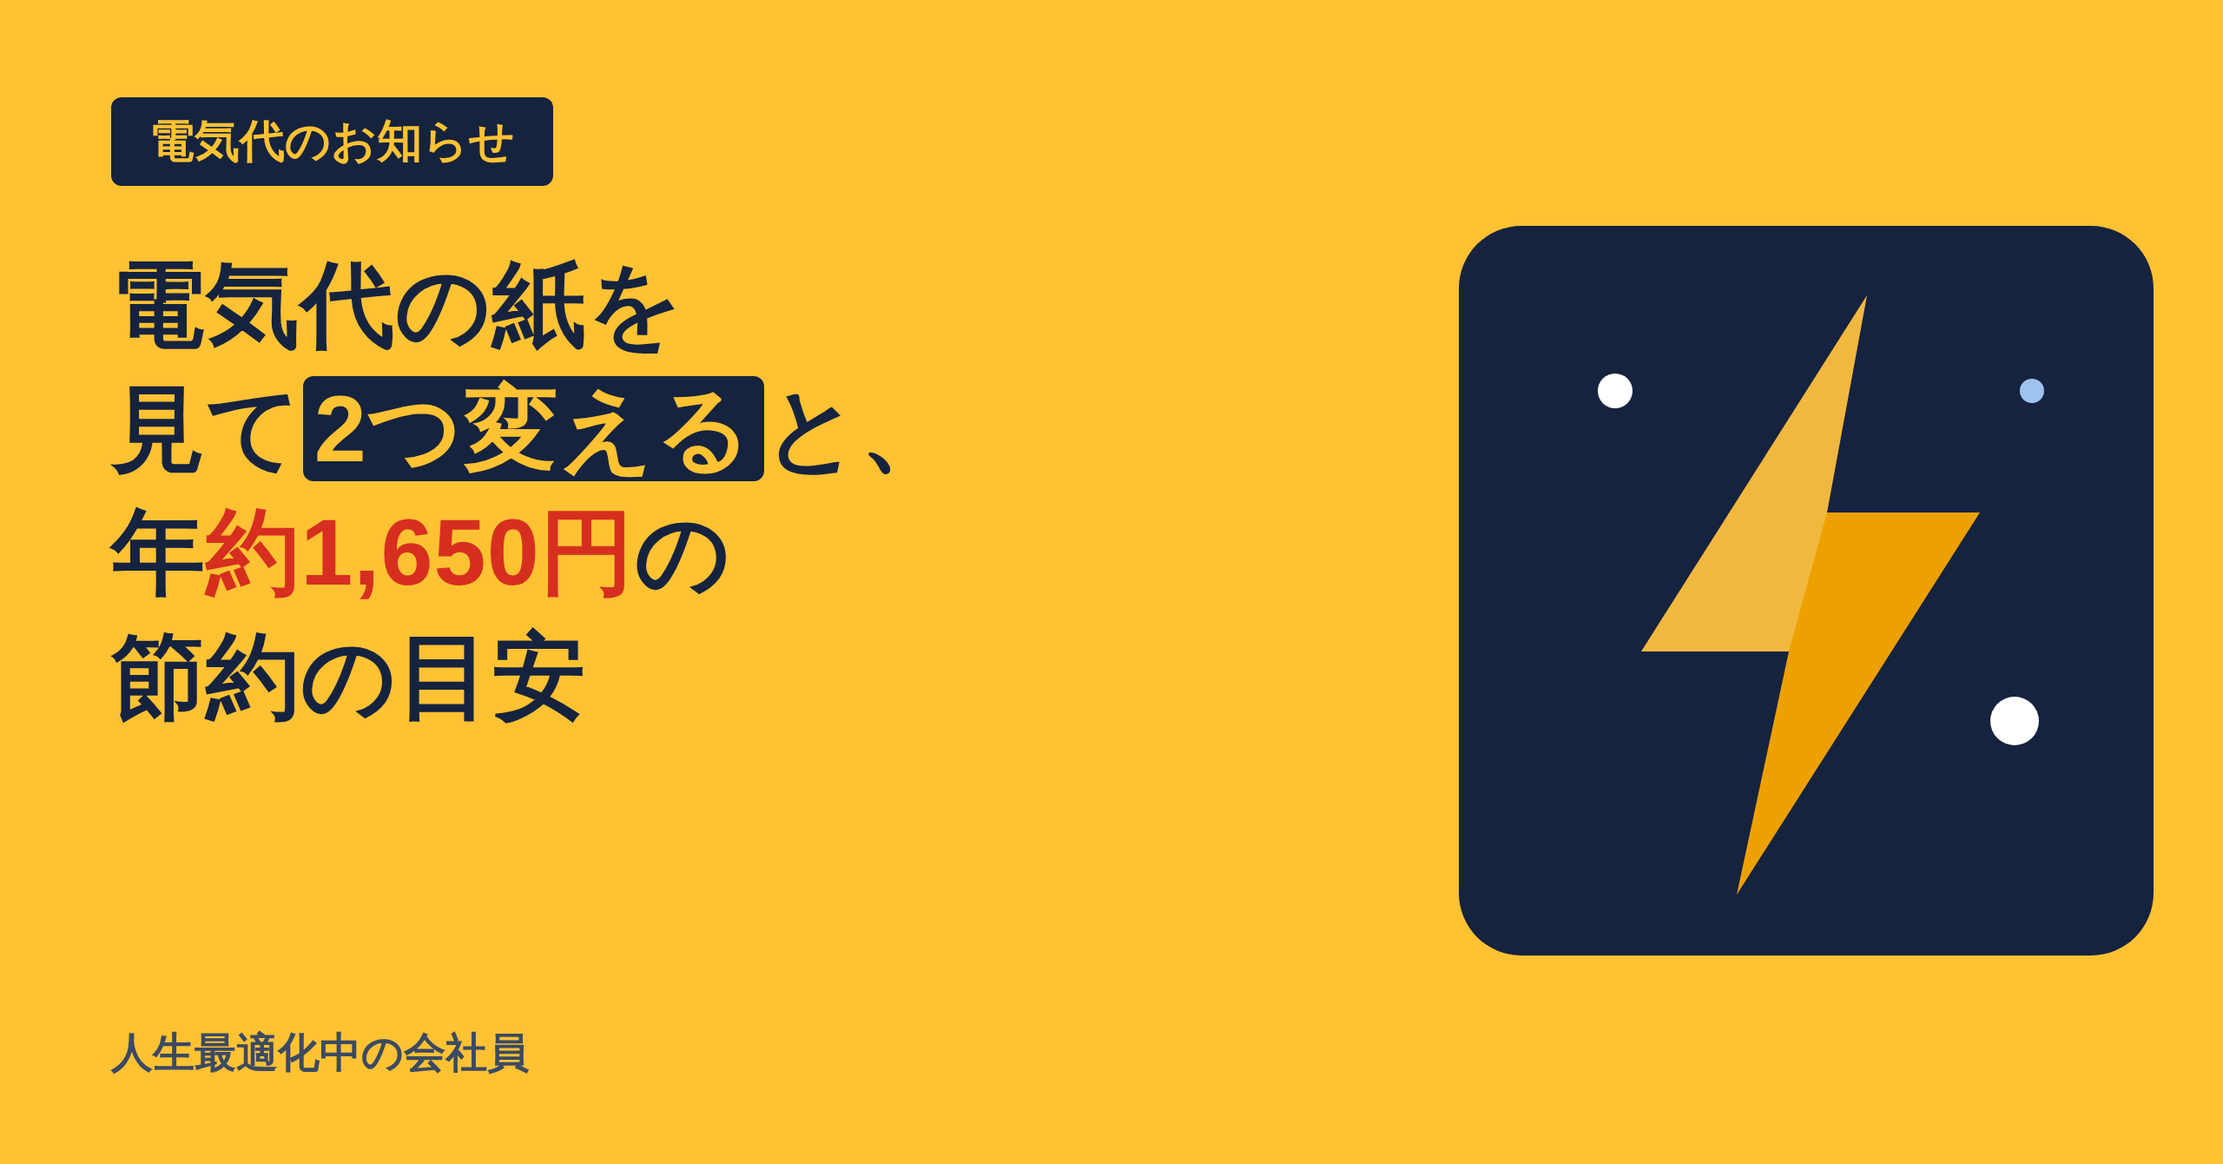
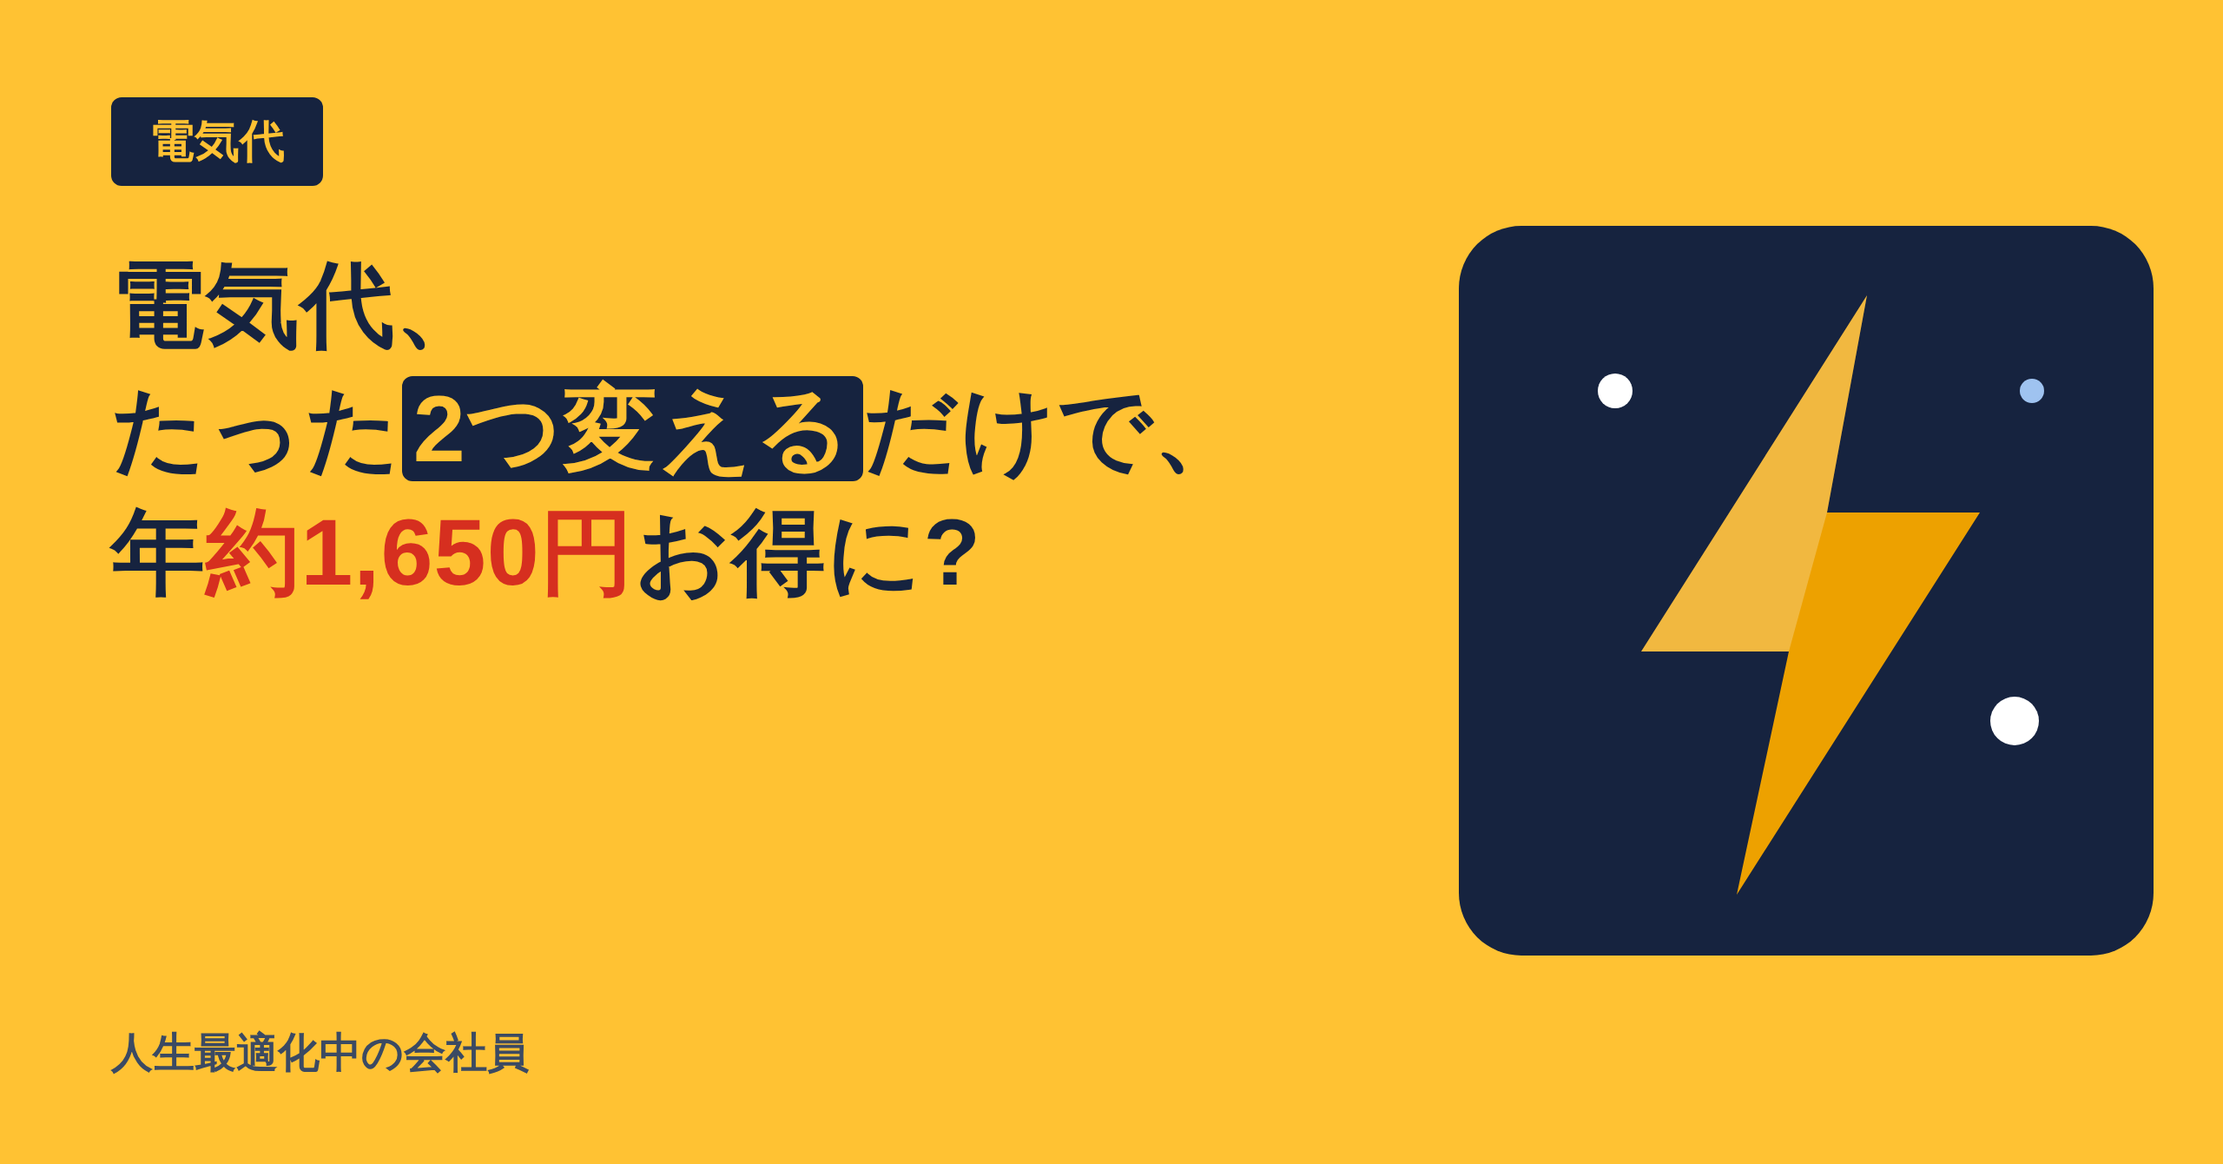
2026-11-02_001: shorter title per owner (電気代、たった2つ変えるだけで、年約1,650円お得に?)
Claude-Session: https://claude.ai/code/session_019jxzMkHZEL8EPC28xkVZW1

diff --git a/runs/2026-11-04_002/03_draft.md b/runs/2026-11-04_002/03_draft.md
@@ -1,0 +1,124 @@
+# 「毎月こんなもの」のスマホ代、1年分だといくら?
+
+【画像:cover.png】
+
+こんにちは、人生最適化中の会社員です。今日は、毎月のスマホ代を「1年分」で見る話です。
+
+請求が届いて、金額を見て、「まあ、毎月こんなものか」と思って閉じる。そんな人もいると思います。月に数千円だと、わざわざ調べる気になりにくいですよね。
+
+そこで、電卓を1つ用意してください。やることは3つだけです。
+
+1. 今月の請求額を、電卓で12倍する
+2. 請求書(またはマイページ)で、見る場所を3つ確かめる
+3. 気になるところがあれば、総務省が案内する見直しの3段階に進む
+
+乗り換えなくても、見直しの入口には立てます。ただ、下がる金額は人の契約によって違い、「必ず下がる」とは言えません。この記事の金額は、どれも目安です。
+
+## 月の請求は、12倍すると大きさが見える
+
+毎月の請求は、1回ごとの額が小さく見えます。でも、スマホ代は1年間ずっと続きます。12か月分をまとめると、金額の感じ方が変わることがあります(これは僕の推測です)。
+
+たとえば、気づかないまま月500円ぶんを余計に払い続けていたとします。1回なら缶コーヒー数本ぶんですが、500円×12=6,000円です。月で見るより、年で見たほうが、手を動かす理由になりやすいと思います。
+
+## まず、今月の請求を電卓で12倍する
+
+今月の請求額に12を掛けてください。これが、いまの契約を1年続けたときの目安です(毎月の額が変わる人は、直近の数か月を見て、近い額で試してください)。
+
+並べる目安として、公的な統計も1つだけ置いておきます。総務省統計局の家計調査(2025年平均)では、「通信」の支出は1世帯あたり月平均11,672円でした。12倍すると140,064円です。
+
+ただし、この数字には注意が必要です。
+
+- 対象は二人以上の世帯で、世帯主の平均年齢は60.7歳です。単身の人や20〜30代の平均ではありません
+- 「通信」には、携帯電話のほか、自宅のインターネットなど、ほかの通信費も含まれます
+
+つまり、あなたの請求がこれより高くても低くても、「払いすぎ」かどうかは分かりません。あくまで、自分の数字を置いて眺めるための目安です。
+
+## 「月に少し下がる」は、1年でいくら?
+
+次は、もし月の支払いが下がったらの計算です。式は「下がる額(月)×12」です。以下は**架空の例**で、見直しでこれだけ下がると言っているわけではありません。
+
+- 月500円下がったら: 500円×12=6,000円
+- 月1,000円下がったら: 1,000円×12=12,000円
+- 月1,500円下がったら: 1,500円×12=18,000円
+
+【画像:fig1_year_table.png】
+
+総務省のページには、「見直すと月いくら下がる」という平均的な金額は載っていません。だから、自分の契約でいくら下がるかは、請求を見て確かめるしかありません。
+
+## 請求書で見る場所は3つ
+
+12倍して気になったら、請求書やマイページで次の3か所を見てみてください。
+
+**1. 付け足したサービスが残っていないか。** 契約のときや、あとから付けた小さなサービス(「オプション」と呼ばれます)です。総務省は、使わなくなったものは「面倒ですが解約しましょう」と案内しています。月の額を足して12倍すると、1年分の大きさが分かります。
+
+**2. 割引の条件と、終わる時期。** 割引は「最初の半年間だけ」「家族とセットのときだけ」など、期間や条件で料金が変わることがあります。広告の「最安値」も、すべての割引を当てた価格の場合が多いと、総務省が注意しています。
+
+**3. 契約の中身と、使い方の合い方。** 契約のデータ量に対して実際の使用量が少ない、逆によく電話するのに通話が定額になっていない、といった場面は、安くなる例として総務省のページに挙がっています。
+
+【画像:fig2_flow.png】
+
+## 年で見たら、次にやること
+
+総務省の携帯電話ポータルサイトは、見直しを3段階で案内しています。
+
+1. **データ使用量を知る。** 毎月どれだけ使っているかを確かめます
+2. **料金プランを選ぶ。** 「プラン」は、料金とデータ量などの組み合わせのことです。同じ会社の中でも、大容量の定額から、使った量に応じて払う段階制に変えると安くなることがある、と書かれています
+3. **使わないオプションを解約する。** 先ほどの1の続きです
+
+ここまでは、会社を変えなくてもできます。まず1から順に、気になるところだけで十分です。
+
+## つまずきやすいところ(読者のあるある)
+
+- 請求は金額の合計だけ見て、内訳は開かない。そんな人もいると思います
+- 「最初の半年は安い」と聞いて契約したけれど、いつ終わるのか覚えていない、という人もいるかもしれません
+- 「そのうち見直そう」と思いながら、毎月の請求が過ぎていく。そんな人もいると思います
+
+どれも、特別なことではないと思います。気づいたときに、今月分を12倍するところから始めれば大丈夫です。
+
+## 乗り換えるなら、先に足し算を
+
+「乗り換え」は、今の携帯会社をやめて別の会社に移ることです。月の額が下がるなら移ったほうがいいのでは、と思うかもしれませんが、移るときにはお金がかかる場合があります。総務省のページによると、次のとおりです。
+
+- 乗り換え先の契約の手数料(事務手数料など)は、概ね3,300円前後かかる場合があります。店舗だと、多くの場合かかります
+- 今の契約を途中でやめるときの違約金(途中解約のお金)は、2022年7月以降に結んだ契約では、上限が「1,100円と月額料金の低いほう」です(対象の事業者の携帯サービス)
+- 端末(スマホ本体)を分割払いにしている場合は、乗り換えたあとも、支払いが終わるまで毎月の請求が続きます
+- 家族割やセット割が外れて、料金が上がる場合もあります
+
+回収の目安は、「かかる費用÷月に下がる額」で出せます。架空の例では、手数料3,300円で、月500円下がるなら3,300円÷500円=6.6か月、月1,000円下がるなら3,300円÷1,000円=3.3か月です。ここには、端末代の残りや、家族割が外れる分は入っていません。それらがあると、もっと時間がかかります。
+
+契約したあとに考え直したくなったら、契約書面を受け取ってから8日以内なら一方的に解約できる「初期契約解除」という制度があります。ただし、大手の携帯会社などは別の「確認措置」という仕組みを使っていて、電波が十分でない場合などに限られます。対象かどうかは契約先で確認してください。
+
+## まとめ
+
+- 月の請求を12倍すると、1年分の大きさが見えます
+- 家計調査の平均(月11,672円・年140,064円)は、対象が違うので、評価ではなく並べる目安にとどめます
+- 見る場所は3つ。付け足したサービス、割引の終わる時期、契約の中身と使い方です
+- 乗り換えは、費用を月の下がる額で割って、回収の目安を出してから考えます
+
+最後まで読んでくれて、ありがとうございます。
+
+この記事は助言ではなく、一般的な情報です。料金・手数料・ルールは、契約の内容や時期で変わります。最新の内容は契約先と総務省のサイトで確認し、判断はご自身でお願いします。
+
+## 情報源
+- https://www.soumu.go.jp/menu_seisaku/ictseisaku/keitai_portal/norikae_1.html (総務省 携帯電話ポータルサイト「料金プランを見直してみよう」、2026-11-04 取得)
+- https://www.soumu.go.jp/menu_seisaku/ictseisaku/keitai_portal/norikae_2.html (同「乗換えの基本と費用」、2026-11-04 取得)
+- https://www.soumu.go.jp/menu_seisaku/ictseisaku/keitai_portal/norikae_3.html (同「乗換えのチェックポイント」、2026-11-04 取得)
+- https://www.soumu.go.jp/menu_seisaku/ictseisaku/keitai_portal/index.html (同トップ、違約金のお知らせ。2026-11-04 取得)
+- https://www.soumu.go.jp/menu_seisaku/ictseisaku/keitai_portal/gimonkaiketsu/q_5.html (同Q5「初期契約解除」、2026-11-04 取得)
+- https://www.stat.go.jp/data/kakei/2025np/pdf/summary.pdf (総務省統計局 家計調査報告 2025年平均結果の概要、2026-08-07 公開、2026-11-04 取得)
+
+## 執筆メモ(事実・推測・体験の区別)
+- 事実:
+  - 見直しの3段階、使わないオプションは解約、割引は期間・条件で変わる、「最安値」は全割引適用の場合が多い、通話・データ量の合い方、段階制プラン: [S1]
+  - 事務手数料概ね3,300円前後、店舗だと多くの場合かかる: [S6]
+  - 違約金の上限(1,100円と月額の低いほう、2022年7月以降の契約、対象事業者): [S4][S5]。分割払いは乗り換え後も請求が続く、家族割・セット割が外れる: [S4]
+  - 初期契約解除(契約書面受領から8日以内)と確認措置: [S8]
+  - 家計調査 通信 月平均11,672円(二人以上世帯、世帯主平均60.7歳)、携帯以外の通信費も含む: [S9]
+- 推測・計算: 12倍で年の大きさが分かりやすくなる(推測と明記)。140,064円、6,000円、12,000円、18,000円、6.6か月、3.3か月は計算式を本文に示した架空の例(公式の削減額ではない)。
+- 体験: なし。体験欄は作っていない。「つまずきやすいところ」3か所は読者の場面で、筆者の体験ではない。【要入力】なし。次回予告は、確認できる企画がないため入れていない。
+- 注意: 違約金は契約の時期で扱いが違うため、本文に「2022年7月以降の契約」と範囲を書いた。会社名・サービス名は出していない。
+
+## 図の指示(figures.json 用)
+1. cover: {"type":"cover","name":"cover","tag":"スマホ代","title_html":"「毎月こんなもの」の<br><em>スマホ代</em>、<br>1年分だと<b>いくら?</b>","icon":"phone"}。猫なし、1行12字以内、短い型。2段型の sub は使わない。
+2. fig1_year_table: {"type":"checklist","name":"fig1_year_table","title":"月の額を12倍すると、1年分","columns":["月の額","12倍(1年分)","メモ"],"widths":[380,380,392],"boxes":false,"rows":[["500円","6,000円","架空の例(500円×12)"],["1,000円","12,000円","架空の例(1,000円×12)"],["1,500円","18,000円","架空の例(1,500円×12)"],["11,672円","140,064円","家計調査の通信・月平均(二人以上世帯、携帯以外も含む)"],["あなたの請求","電卓で12倍","自分の数字で出す"]],"note":"架空の例は、下がる額の保証ではありません。家計調査は総務省統計局(2025年平均)。"}
+3. fig2_flow: {"type":"checklist","name":"fig2_flow","title":"見る場所の流れ","columns":["順番","やること","見るところ"],"widths":[200,380,572],"boxes":false,"rows":[["1","電卓で12倍","今月の請求額×12"],["2","請求書で3か所","付け足したサービス/割引の終わる時期/契約の中身と使い方"],["3","見直しの3段階","データ使用量を知る → 料金プランを選ぶ → 使わないオプションを解約"]],"note":"出典: 総務省 携帯電話ポータルサイト。"}

diff --git a/runs/2026-11-02_001/06_sns.md b/runs/2026-11-02_001/06_sns.md
@@ -1,6 +1,6 @@
-# SNS投稿案: 電気代の紙を見て2つ変えると、年約1,650円の節約の目安
+# SNS投稿案: 電気代、たった2つ変えるだけで、年約1,650円お得に?
 ## X投稿案
-- 「電気代の紙を見て2つ変えると、年約1,650円の節約の目安」という記事を書きました。例えば(架空の例)冷房を1℃ゆるめ、白熱電球を1日1時間減らした場合の試算です。目安で、下がる保証ではありません。【記事URL】
+- 「電気代、たった2つ変えるだけで、年約1,650円お得に?」という記事を書きました。例えば(架空の例)冷房を1℃ゆるめ、白熱電球を1日1時間減らした場合の試算です。目安で、下がる保証ではありません。【記事URL】
 - 電気代の紙の「使用量」が1kWh減ると、約33円動く目安です。環境省の調査(令和4年度)の年13.2万円÷3,950kWhを、こちらで割り算した数字。実際の額とはずれます。【記事URL】
 - 冷房の設定を27℃から28℃に上げると、年30.2kWhの削減(環境省のページの条件での数字)。33円をかけて約1,000円。夏の話なので、来年の夏の目安です。保証ではありません。【記事URL】
 - 照明を1日1時間減らすと、白熱電球で年19.71kWh(環境省)。33円で計算すると約650円。白熱電球を使っていない家では、これより小さくなります。金額は目安です。【記事URL】
@@ -28,7 +28,7 @@
 
 ## Instagram投稿案
 カルーセル案(全7枚)
-- 1枚目: 電気代の紙を見て2つ変えると、年約1,650円の節約の目安 / 金額は目安です。下がる保証ではありません
+- 1枚目: 電気代、たった2つ変えるだけで、年約1,650円お得に? / 金額は目安です。下がる保証ではありません
 - 2枚目: 毎月届く電気代の紙 / 合計金額だけ見て、そっと閉じる。そんな人もいると思います
 - 3枚目: 見る場所は3つ / 使用期間 ・ 使用量 ・ ほかの行と契約欄
 - 4枚目: ものさしは「1kWh=約33円」 / 環境省(令和4年度)の年13.2万円 ÷ 3,950kWh。全国平均から割り算した目安です
@@ -61,7 +61,7 @@ noteでは、次のことも書いています。
 
 ## 告知ポスト(週次企画用。X・Threads共通)
 - 投稿当日用: 電気代の紙の「使用量」を、数字つきで一緒に見ていく記事を公開しました。「電気代の紙を見て2つ変えると、年約1,650円の目安」。金額は目安で、保証ではありません。【記事URL】
-- 2日後のリマインド用: 先日公開した「電気代の紙を見て2つ変えると、年約1,650円の節約の目安」。次に紙が届いたら、使用期間と使用量の2か所だけでも見てみてください。金額は目安です。【記事URL】
+- 2日後のリマインド用: 先日公開した「電気代、たった2つ変えるだけで、年約1,650円お得に?」。次に紙が届いたら、使用期間と使用量の2か所だけでも見てみてください。金額は目安です。【記事URL】
 
 ## 確認メモ
 - 使った数字は、記事にあるものだけです(環境省の年間3,950kWh・13.2万円、そこから割り算した約33円/kWh、冷房1℃の年30.2kWh=約1,000円、白熱電球1時間の年19.71kWh=約650円、合計年約1,650円・月約140円、待機電力約5%)。「(要確認)」の数字は記事にありません。

diff --git a/runs/2026-11-02_001/author_notes.md b/runs/2026-11-02_001/author_notes.md
@@ -31,3 +31,6 @@
 
 ## 2026-11-04 タイトル決定(持ち主)
 - 持ち主が『年で1700円以上も節約』を希望したが、記事の計算は約1,650円(1,700円に届かない)ので、事実に合わせた『電気代の紙を見て2つ変えると、年約1,650円の節約の目安』(26字)を提案し、持ち主が『OK』と返事。
+
+## 2026-11-04 タイトル再変更(持ち主)
+- 持ち主の指摘: 長い、『電気代の紙』が何か分からない。『電気代、たった2つ変えるだけで◯円お得に!』のように。→ 『電気代、たった2つ変えるだけで、年約1,650円お得に?』(27字)。『お得に!』と言い切ると保証になるので、問いの形(?)にした。本文で『見るだけでは下がらない・目安で保証ではない』を明記。

diff --git a/runs/2026-11-02_001/05_revised.md b/runs/2026-11-02_001/05_revised.md
@@ -1,4 +1,4 @@
-# 電気代の紙を見て2つ変えると、年約1,650円の節約の目安
+# 電気代、たった2つ変えるだけで、年約1,650円お得に?
 
 【画像:cover.png】
 
